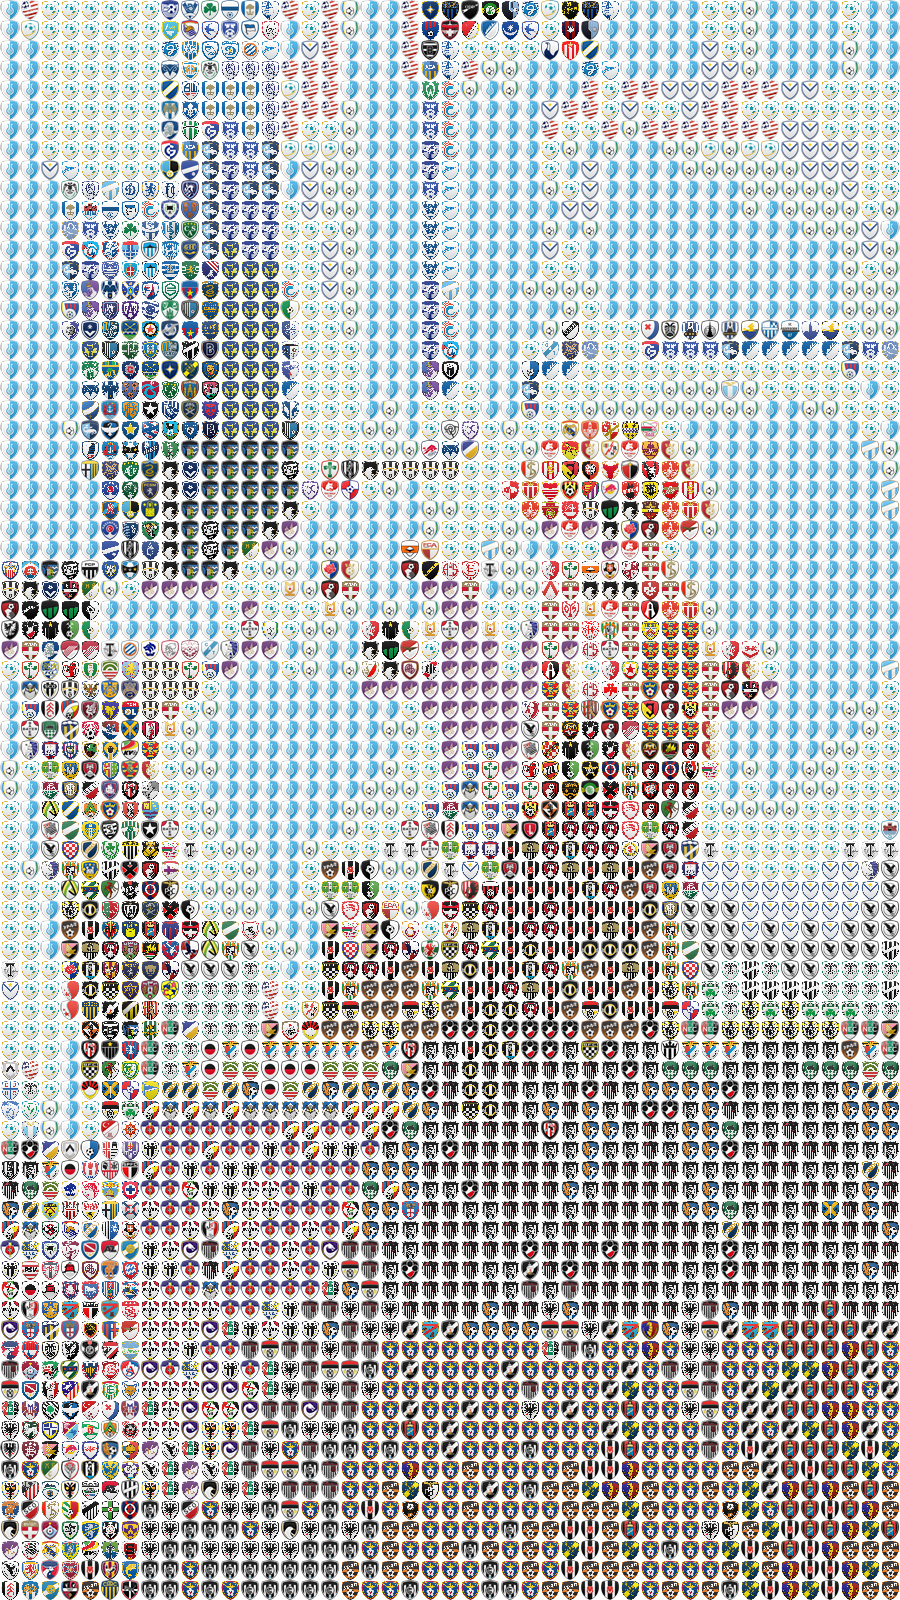
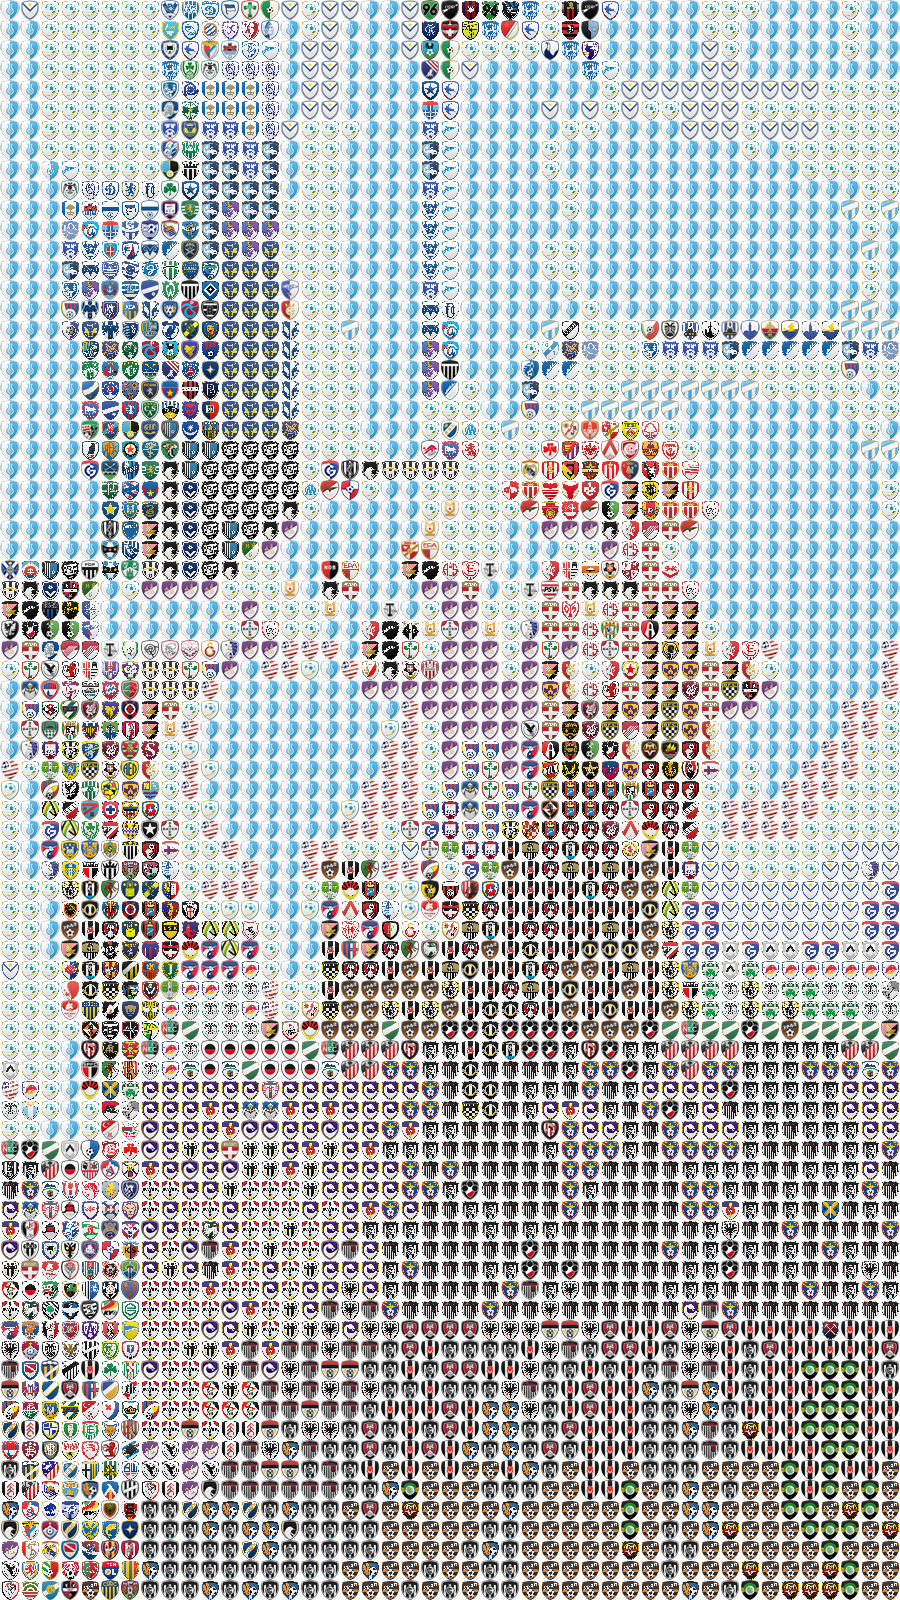
0052 Rendering goes down to quadrant level

diff --git a/Mosaic/Mosaic.WebUI/ImageMosaicService/ImageProcessing.cs b/Mosaic/Mosaic.WebUI/ImageMosaicService/ImageProcessing.cs
@@ -13,7 +13,7 @@ namespace ImageMosaicService
         private Size tileSize;
         private List<ImageInfo> library;
 
-        enum Target
+        public enum Target
         {
             Whole,
             TL,
@@ -86,6 +86,28 @@ namespace ImageMosaicService
             return Color.FromArgb(255, (int)(r / p), (int)(g / p), (int)(b / p));
         }
 
+        public Rectangle CreateQuadrantRectangle(int x, int y, int width, int height, Target target)
+        {
+            var widthHalf = width / 2;
+            var heightHalf = height / 2;
+
+            switch (target)
+            {
+                case Target.Whole:
+                    return new Rectangle(x, y, width, height);
+                case Target.TL:
+                    return new Rectangle(x, y, widthHalf, heightHalf);
+                case Target.TR:
+                    return new Rectangle(x + widthHalf, y, widthHalf, heightHalf);
+                case Target.BL:
+                    return new Rectangle(x, y + heightHalf, widthHalf, heightHalf);
+                case Target.BR:
+                    return new Rectangle(x + widthHalf, y + heightHalf, widthHalf, heightHalf);
+                default:
+                    return new Rectangle();
+            }
+        }
+
         public MosaicTileColour[,] CreateMap(Bitmap img)
         {
             int horizontalTiles = (int)img.Width / tileSize.Width;
@@ -103,18 +125,14 @@ namespace ImageMosaicService
                 {
                     var xstart = tileWidth * x;
                     var ystart = tileHeight * y;
-
-                    var halfX = xstart + (tileWidth / 2);
-                    var halfY = ystart + (tileHeight / 2);
-
                     var tileColour = new MosaicTileColour();
 
                     // These are the opertaions to perform if we want to subdivide tile
-                    tileColour.AverageTL = getAverageTileColor(new Rectangle(xstart, ystart, tileWidth / 2, tileHeight / 2), img, quality);
-                    tileColour.AverageTR = getAverageTileColor(new Rectangle(halfX, ystart, tileWidth / 2, tileHeight / 2), img, quality);
-                    tileColour.AverageBL = getAverageTileColor(new Rectangle(xstart, halfY, tileWidth / 2, tileHeight / 2), img, quality);
-                    tileColour.AverageBR = getAverageTileColor(new Rectangle(halfX, halfY, tileWidth / 2, tileHeight / 2), img, quality);
-                    tileColour.AverageWhole = getAverageTileColor(new Rectangle(xstart, ystart, tileWidth, tileHeight), img, quality);
+                    tileColour.AverageTL = getAverageTileColor(CreateQuadrantRectangle(xstart, ystart, tileWidth, tileHeight, Target.TL), img, quality);
+                    tileColour.AverageTR = getAverageTileColor(CreateQuadrantRectangle(xstart, ystart, tileWidth, tileHeight, Target.TR), img, quality);
+                    tileColour.AverageBL = getAverageTileColor(CreateQuadrantRectangle(xstart, ystart, tileWidth, tileHeight, Target.BL), img, quality);
+                    tileColour.AverageBR = getAverageTileColor(CreateQuadrantRectangle(xstart, ystart, tileWidth, tileHeight, Target.BR), img, quality);
+                    tileColour.AverageWhole = getAverageTileColor(CreateQuadrantRectangle(xstart, ystart, tileWidth, tileHeight, Target.Whole), img, quality);
                     colorMap[x, y] = tileColour;
                 }
             }
@@ -174,19 +192,18 @@ namespace ImageMosaicService
                         infoBL = imageInfos[GetBestImageIndex(colorMap[x, y], x, y, random, Target.BL)];
                         infoBR = imageInfos[GetBestImageIndex(colorMap[x, y], x, y, random, Target.BR)];
                         count++;
+                        RenderTile(colorMap, colourBlended, g, infoTL, imageSq, x, y, Target.TL);
+                        RenderTile(colorMap, colourBlended, g, infoTR, imageSq, x, y, Target.TR);
+                        RenderTile(colorMap, colourBlended, g, infoBL, imageSq, x, y, Target.BL);
+                        RenderTile(colorMap, colourBlended, g, infoBR, imageSq, x, y, Target.BR);
                     }
-
-                    RenderTile(colorMap, colourBlended, g, info, imageSq, x, y, tileSize.Width, tileSize.Height);
+                    else
+                    {
+                        RenderTile(colorMap, colourBlended, g, info, imageSq, x, y, Target.Whole);
+                    }
                 }
             }
 
-            //double count = 0;
-            //foreach (var dif in imageSq)
-            //{
-            //    count += dif.Difference;
-            //}
-            //var avg = count / imageSq.Count;
-            //0.35
             return new Mosaic()
             {
                 Image = newImg,
@@ -194,8 +211,9 @@ namespace ImageMosaicService
             };
         }
 
+        // Pass target into method
         private void RenderTile(MosaicTileColour[,] colorMap, bool colourBlended, Graphics g, ImageInfo info, List<MosaicTile> imageSq, 
-                                int x, int y, int width, int height)
+                                int x, int y, Target target)
         {
             Rectangle destRect, srcRect;
 
@@ -207,12 +225,11 @@ namespace ImageMosaicService
                     X = x,
                     Y = y,
                     Image = info.Path,
-                    Difference = info.Difference
-                    
+                    Difference = info.Difference                    
                 });
 
                 // Draws stored image for coord x, y for given height and width
-                destRect = new Rectangle(x * tileSize.Width, y * tileSize.Height, tileSize.Width, tileSize.Height);
+                destRect = CreateQuadrantRectangle(x * tileSize.Width, y * tileSize.Height, tileSize.Width, tileSize.Height, target);
                 srcRect = new Rectangle(0, 0, source.Width, source.Height);
 
                 g.DrawImage(source, destRect, srcRect, GraphicsUnit.Pixel);
@@ -220,7 +237,7 @@ namespace ImageMosaicService
                 {
                     var tileAvgColour = colorMap[x, y].AverageWhole;
                     var colourBlendedValue = Color.FromArgb(128, tileAvgColour.R, tileAvgColour.G, tileAvgColour.B);
-                    g.FillRectangle(new SolidBrush(colourBlendedValue), x * width, y * height, width, height);
+                    g.FillRectangle(new SolidBrush(colourBlendedValue), x * tileSize.Width, y * tileSize.Height, tileSize.Width, tileSize.Height);
                 }
             }
         }
@@ -305,13 +322,13 @@ namespace ImageMosaicService
                 switch (target)
                 {
                     case Target.TL:
-                        return GetLibraryTileQuadrantDifference(color.AverageTL, library[i].AverageTL);
+                        return GetLibraryTileQuadrantDifference(color.AverageWhole, library[i].AverageTL);
                     case Target.TR:
-                        return GetLibraryTileQuadrantDifference(color.AverageTR, library[i].AverageTR);
+                        return GetLibraryTileQuadrantDifference(color.AverageWhole, library[i].AverageTR);
                     case Target.BL:
-                        return GetLibraryTileQuadrantDifference(color.AverageBL, library[i].AverageBL);
+                        return GetLibraryTileQuadrantDifference(color.AverageWhole, library[i].AverageBL);
                     case Target.BR:
-                        return GetLibraryTileQuadrantDifference(color.AverageBR, library[i].AverageBR);
+                        return GetLibraryTileQuadrantDifference(color.AverageWhole, library[i].AverageBR);
                     default:
                         return GetLibraryTileDifference(color, i);
                 }

diff --git a/Mosaic/Mosaic.WebUI/ImageMosaicServiceTests/MosaicGeneratorTest.cs b/Mosaic/Mosaic.WebUI/ImageMosaicServiceTests/MosaicGeneratorTest.cs
@@ -76,6 +76,56 @@ namespace ImageMosaicTest
             }
         }
 
+        [TestMethod]
+        public void CanCreateTLQuadrantDestinationRectangle()
+        {
+            var rectangle = imageProcessing.CreateQuadrantRectangle(100, 100, 100, 100, ImageProcessing.Target.TL);
+            Assert.AreEqual(100, rectangle.X);
+            Assert.AreEqual(100, rectangle.Y);
+            Assert.AreEqual(50, rectangle.Height);
+            Assert.AreEqual(50, rectangle.Width);
+        }
+
+        [TestMethod]
+        public void CanCreateTRQuadrantDestinationRectangle()
+        {
+            var rectangle = imageProcessing.CreateQuadrantRectangle(100, 100, 100, 100, ImageProcessing.Target.TR);
+            Assert.AreEqual(150, rectangle.X);
+            Assert.AreEqual(100, rectangle.Y);
+            Assert.AreEqual(50, rectangle.Height);
+            Assert.AreEqual(50, rectangle.Width);
+        }
+
+        [TestMethod]
+        public void CanCreateBLQuadrantDestinationRectangle()
+        {
+            var rectangle = imageProcessing.CreateQuadrantRectangle(100, 100, 100, 100, ImageProcessing.Target.BL);
+            Assert.AreEqual(100, rectangle.X);
+            Assert.AreEqual(150, rectangle.Y);
+            Assert.AreEqual(50, rectangle.Height);
+            Assert.AreEqual(50, rectangle.Width);
+        }
+
+        [TestMethod]
+        public void CanCreateBRQuadrantDestinationRectangle()
+        {
+            var rectangle = imageProcessing.CreateQuadrantRectangle(100, 100, 100, 100, ImageProcessing.Target.BR);
+            Assert.AreEqual(150, rectangle.X);
+            Assert.AreEqual(150, rectangle.Y);
+            Assert.AreEqual(50, rectangle.Height);
+            Assert.AreEqual(50, rectangle.Width);
+        }
+
+        [TestMethod]
+        public void CanCreateWholeQuadrantDestinationRectangle()
+        {
+            var rectangle = imageProcessing.CreateQuadrantRectangle(100, 100, 100, 100, ImageProcessing.Target.Whole);
+            Assert.AreEqual(100, rectangle.X);
+            Assert.AreEqual(100, rectangle.Y);
+            Assert.AreEqual(100, rectangle.Height);
+            Assert.AreEqual(100, rectangle.Width);
+        }
+
         // Move these into a separate file, to act as end to end tests
         // Will need to call implementation in ImageFileIndex service
         //############################################################
